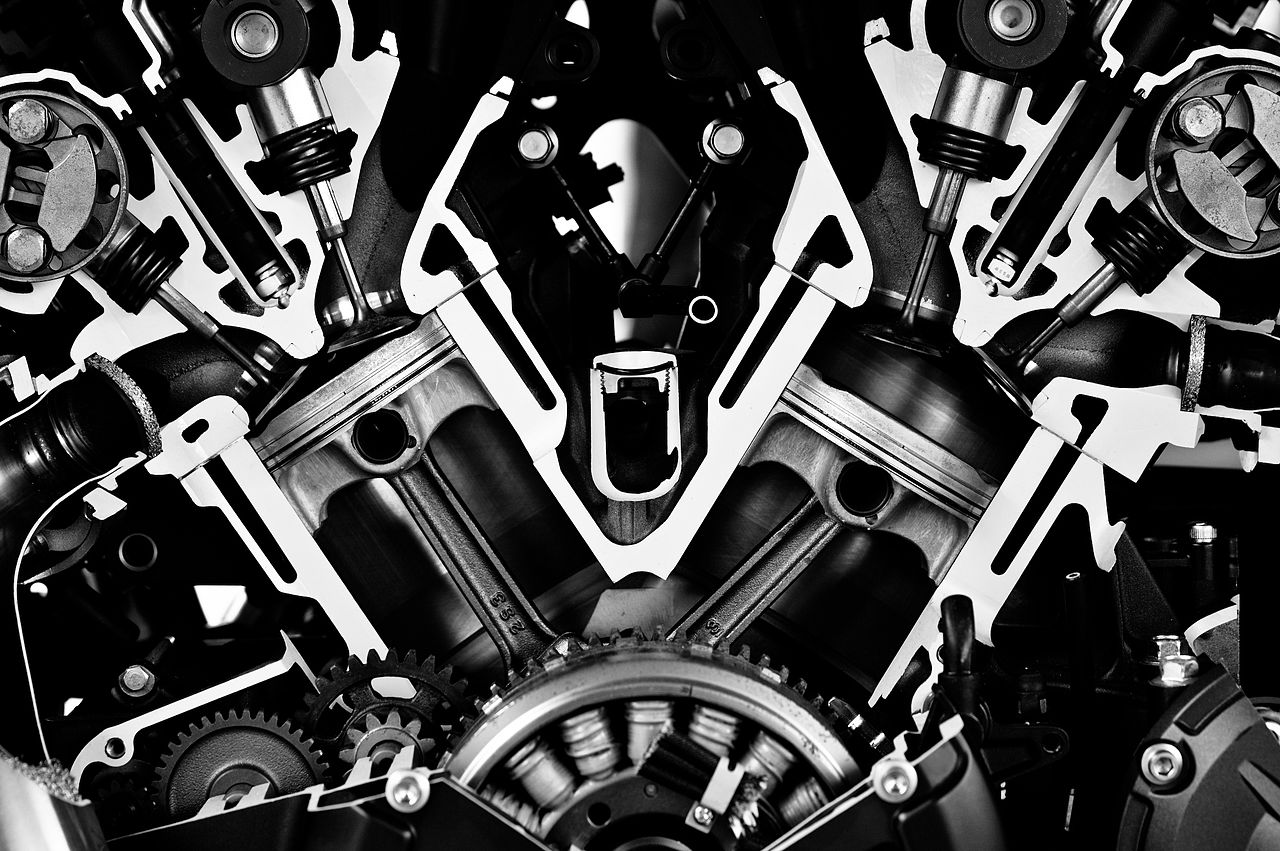
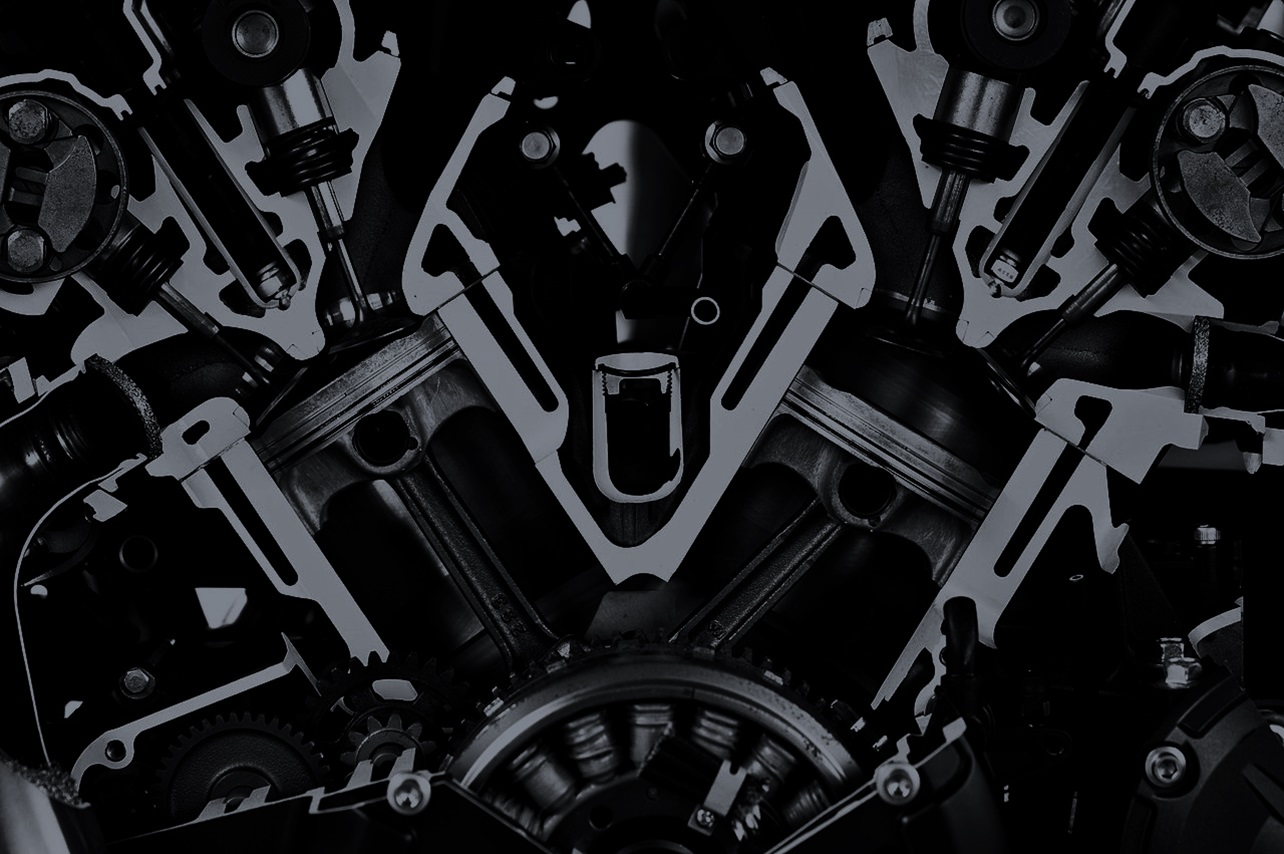
cambios para que sea mas rapida

diff --git a/index.html b/index.html
@@ -16,7 +16,7 @@
 <meta name="viewport" content="width=device-width, initial-scale=1, maximum-scale=1">
 
 <link rel="stylesheet" 		href="./views/css/base.css">
-<link rel="stylesheet" 		href="./views/css/vendor.css">
+<!-- <link rel="stylesheet" 		href="./views/css/vendor.css"> -->
 <link rel="stylesheet" 		href="./views/css/main.css">
 <link rel="stylesheet" 		href="./views/css/personal.css">
 
@@ -26,8 +26,8 @@
 <!-- <script data-cfasync="false" src="form-submission-handler.js"></script> -->
 <link rel="stylesheet" 		href="https://rawcdn.githack.com/rafaelbotazini/floating-whatsapp/3d18b26d5c7d430a1ab0b664f8ca6b69014aed68/floating-wpp.min.css">
 <script src="https://cdnjs.cloudflare.com/ajax/libs/jquery/3.4.1/jquery.min.js" integrity="sha256-CSXorXvZcTkaix6Yvo6HppcZGetbYMGWSFlBw8HfCJo=" crossorigin="anonymous"></script>
-<script src="./views/js/src/modernizr.js"></script>
-<script src="./views/js/src/pace.min.js"></script>
+<!-- <script src="./views/js/src/modernizr.js"></script> -->
+<!-- <script src="./views/js/src/pace.min.js"></script> -->
 <script src="./views/js/carusel.js"></script>
 <script type="text/javascript" src="https://rawcdn.githack.com/rafaelbotazini/floating-whatsapp/3d18b26d5c7d430a1ab0b664f8ca6b69014aed68/floating-wpp.min.js"></script>
 <!-- Global site tag (gtag.js) - Google Analytics -->
@@ -143,8 +143,8 @@
 <a id="bloqueHeader"></a>
 <section id="services">
 
-   	<div class="overlay"></div>
-   	<div class="gradient-overlay"></div>
+   	<div ></div>
+   	<div ></div>
    	
    	<div class="row narrow section-intro with-bottom-sep animate-this">
    		<div class="col-full">

diff --git a/views/css/main.css b/views/css/main.css
@@ -1978,6 +1978,7 @@ html[data-useragent*='MSIE 10.0'] .scrolldown,
   position: relative;
   padding: 15rem 0 15rem;
   color: rgba(255, 255, 255, 0.3);
+  z-index:100;
 }
 #services .overlay {
   position: absolute;
@@ -2011,14 +2012,17 @@ html[data-useragent*='MSIE 10.0'] .scrolldown,
 #services .services-content {
   text-align: center;
   max-width: 1040px;
+  z-index:100;
 }
 #services .services-list {
   margin-top: 1.2rem;
   text-align: center;
+  z-index:100;
 }
 #services .services-list .service-item {
   margin-bottom: 3rem;
   padding: 0 50px;
+  z-index:100;
 }
 #services .services-list .service-item p {
   color: rgba(255, 255, 255);
@@ -2026,16 +2030,19 @@ html[data-useragent*='MSIE 10.0'] .scrolldown,
 #services .services-list .icon {
   display: inline-block;
   margin-bottom: 1.5rem;
+  z-index:100;
 }
 #services .services-list .icon i {
   font-size: 5.4rem;
   color: #f9a828;
+  z-index:100;
 }
 #services .services-list .h05 {
   font-size: 1.7rem;
   line-height: 1.765;
   color: #FFFFFF;
   margin-bottom: 3rem;
+  z-index:100;
 }
 
 /* ------------------------------------------------------------------- 
